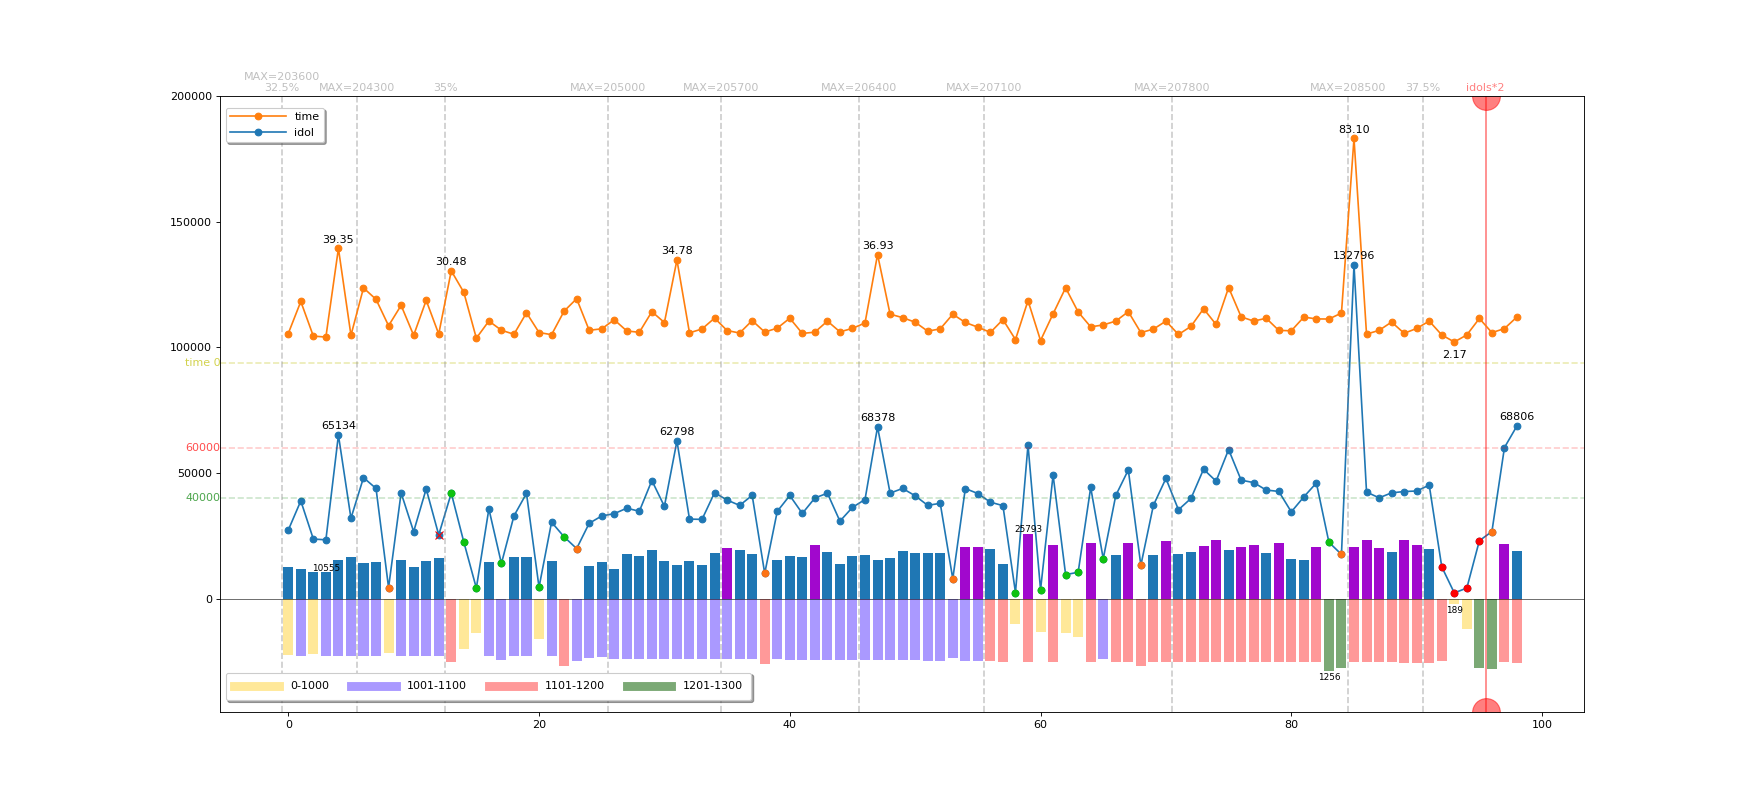
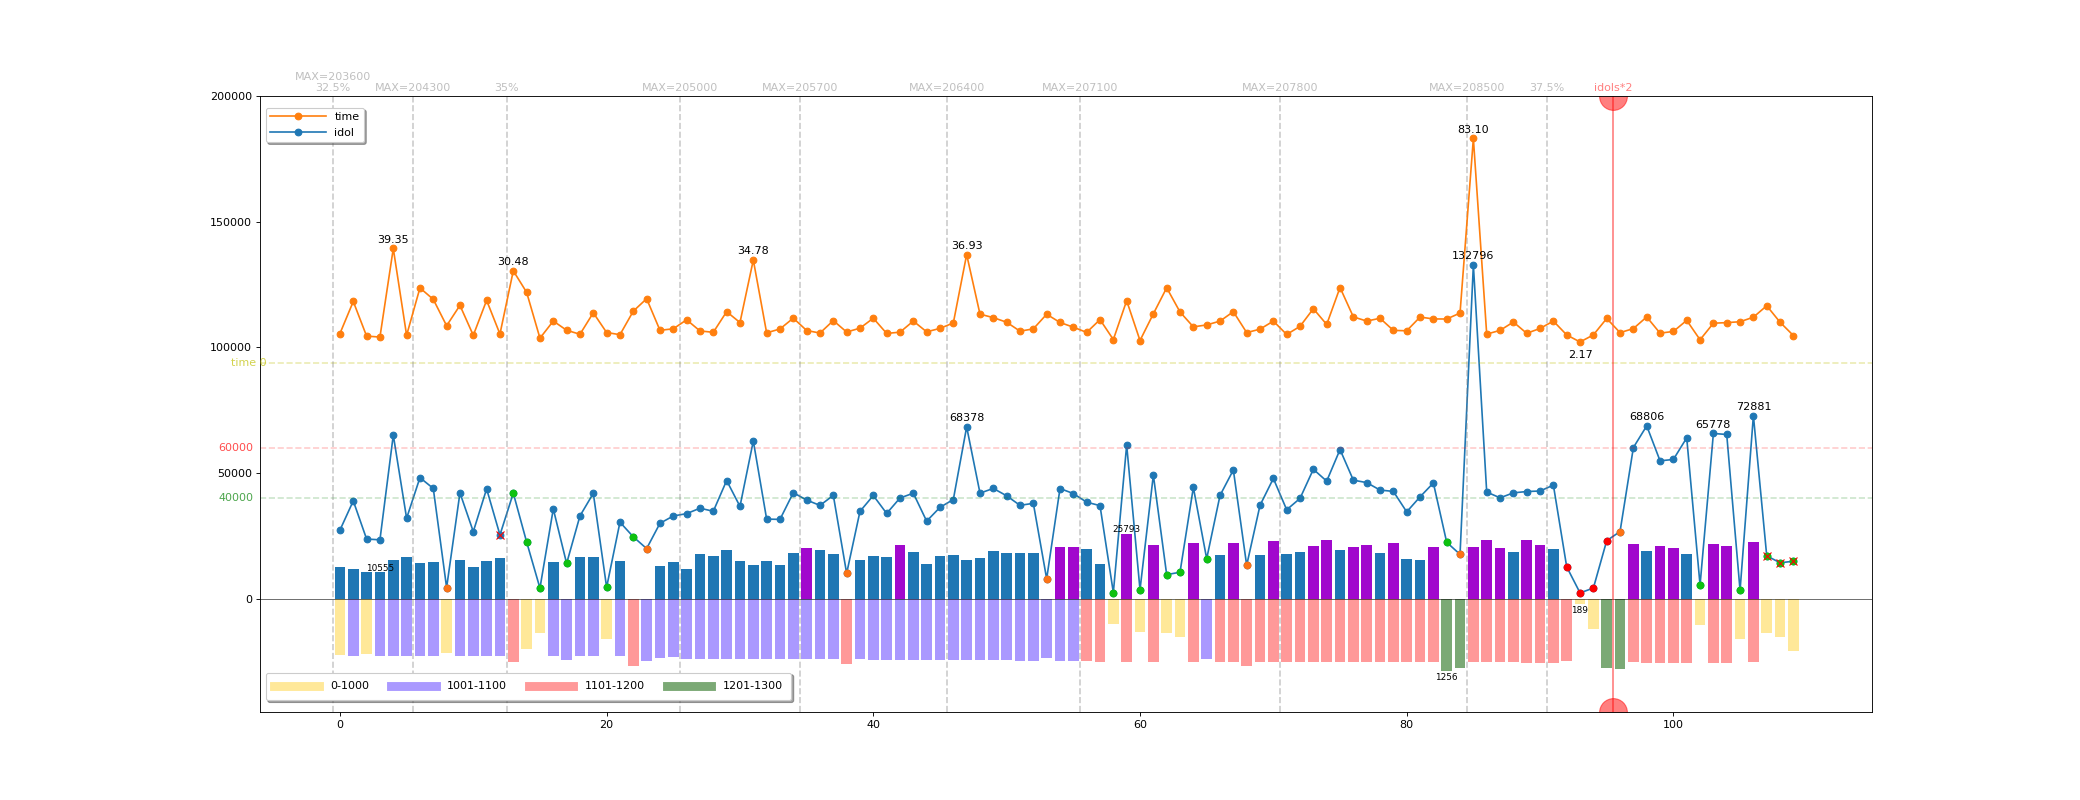
自动解压wiz文件

diff --git a/plot.py b/plot.py
@@ -9,8 +9,14 @@ import re
 import glob
 import os
 
+import shutil
+
+import zipfile
+
+DES_FILE = 'D:\PY\plot\data.zip'
+
 def get_data():
-    fn = "index.html"
+    fn = "%s/%s" % (DES_FILE + "_files", "index.html")
 
     with open(fn, "rb") as f:
         content = f.read()
@@ -66,7 +72,7 @@ def format_data():
     return (dd, mark)
 
 
-def get_top_num_and_index(input_list, num, flag='max'):
+def get_top_num_and_index(input_list, num, flag='max', space=0):
     time = {}
     for index,i in enumerate(input_list):
         time[index] = float(i)*1000
@@ -78,6 +84,8 @@ def get_top_num_and_index(input_list, num, flag='max'):
 
     sort_list = sorted(time.items(), key=lambda item: item[1], reverse=f)
     ret_list = sort_list[:num]
+
+    # pprint(ret_list)
 
     return ret_list
 
@@ -115,7 +123,7 @@ def plot():
 
     data, make = format_data()
 
-    plt.figure(figsize=(22,10), dpi=80)
+    plt.figure(figsize=(26,10), dpi=80)
     # plt.rcParams['font.sans-serif'] = ['SimHei']
     plt.rcParams['font.serif'] = ['consola']
 
@@ -124,13 +132,23 @@ def plot():
 
     l_idol, = plt.plot(data['all'], marker='o', label="idol")
 
+    # top 5
     top_idols = get_top_num_and_index(data['all'], 5)
+
+    space_flag = 0
+
     for i in top_idols:
-        plt.text(i[0],
-            data['all'][i[0]]+1500,
-            '%.0f' % float(data['all'][i[0]]),
-            ha='center',
-            va='bottom')
+
+        # 防止2个大值靠的太近. 重叠
+        if i[0]>space_flag+3 or i[0]<space_flag-3:
+            # print data['all'][i[0]]
+            plt.text(i[0],
+                data['all'][i[0]]+1500,
+                '%.0f' % float(data['all'][i[0]]),
+                ha='center',
+                va='bottom')
+            # i[0] 是 x轴
+            space_flag = i[0]
 
     #---------------------------------------------------------
     # boss
@@ -213,14 +231,16 @@ def plot():
         '%s' % (map_data[min_map] / plus),
         ha='center',va='top', fontsize=8)
 
-
     #---------------------------------------------------------
     # X轴 make
     plt.axhline(60000, ls="--", c="r", alpha=0.2)
-    plt.text(-6.8, 60000, '60000',  color='r', fontsize=10, ha='center', va='center', alpha=0.7)
+
+    # TODO 根据数据数量控制x轴位置
+    #          x     y
+    plt.text(-7.8, 60000, '60000',  color='r', fontsize=10, ha='center', va='center', alpha=0.7)
 
     plt.axhline(40000, ls="--", c="g", alpha=0.2)
-    plt.text(-6.8, 40000, '40000',  color='g', fontsize=10, ha='center', va='center', alpha=0.7)
+    plt.text(-7.8, 40000, '40000',  color='g', fontsize=10, ha='center', va='center', alpha=0.7)
 
     # plt.axhline(20000, ls="--", c="b", alpha=0.1)
     plt.axhline(0, ls="-", c="k", linewidth=0.5)
@@ -263,7 +283,6 @@ def plot():
     for index, i in enumerate(data['idol_buff']):
         if int(i[:-1]) == 0:
             plt.plot(index, data['all'][index],'rx', markersize=8)
-
 
     #---------------------------------------------------------
     # time
@@ -310,7 +329,6 @@ def plot():
     #---------------------------------------------------------
     # text
 
-
     #---------------------------------------------------------
     # legend
 
@@ -343,7 +361,33 @@ def plot():
 
     save(plt)
 
+    print "plot over."
+
+def copy():
+    src = 'D:\Documents\My Knowledge\Data\lpnueg@163.com\Game\Crusaders of the Lost Idols\idols 计算.ziw'.decode('u8')
+    DES_FILE = 'D:\PY\plot\data.zip'
+    try:
+        shutil.copy(src, DES_FILE)
+    except Exception, e:
+        print e
+    print "copy over."
+
+def unzip():
+    zip_file = zipfile.ZipFile(DES_FILE)
+
+    if os.path.isdir(DES_FILE + "_files"):
+        pass
+    else:
+        os.mkdir(DES_FILE + "_files")
+
+    for names in zip_file.namelist():
+        zip_file.extract(names, DES_FILE + "_files")
+
+    zip_file.close()
+    print "unzip over."
 
 if __name__ == "__main__":
 
+    copy()
+    unzip()
     plot()
